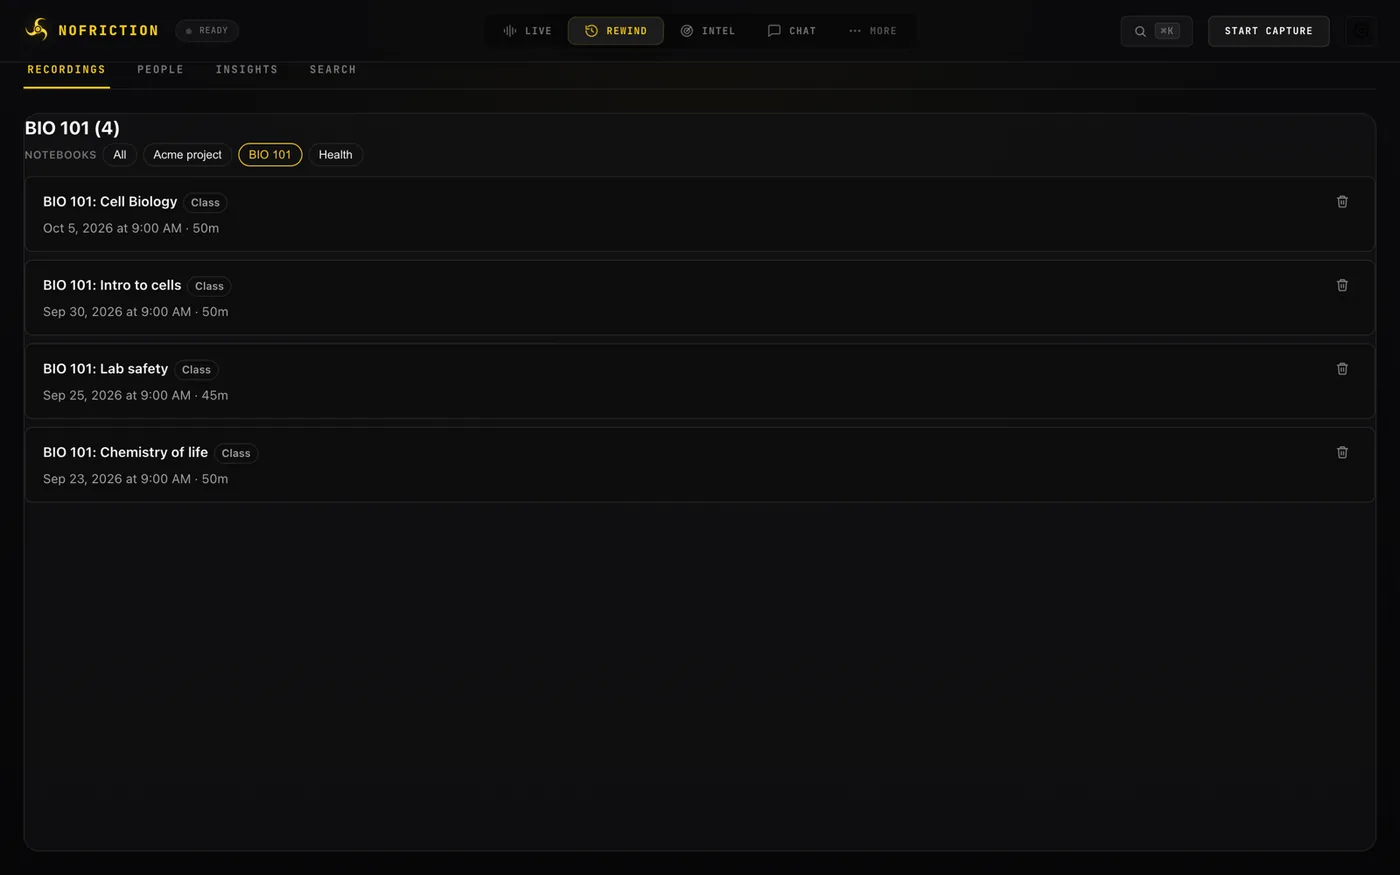
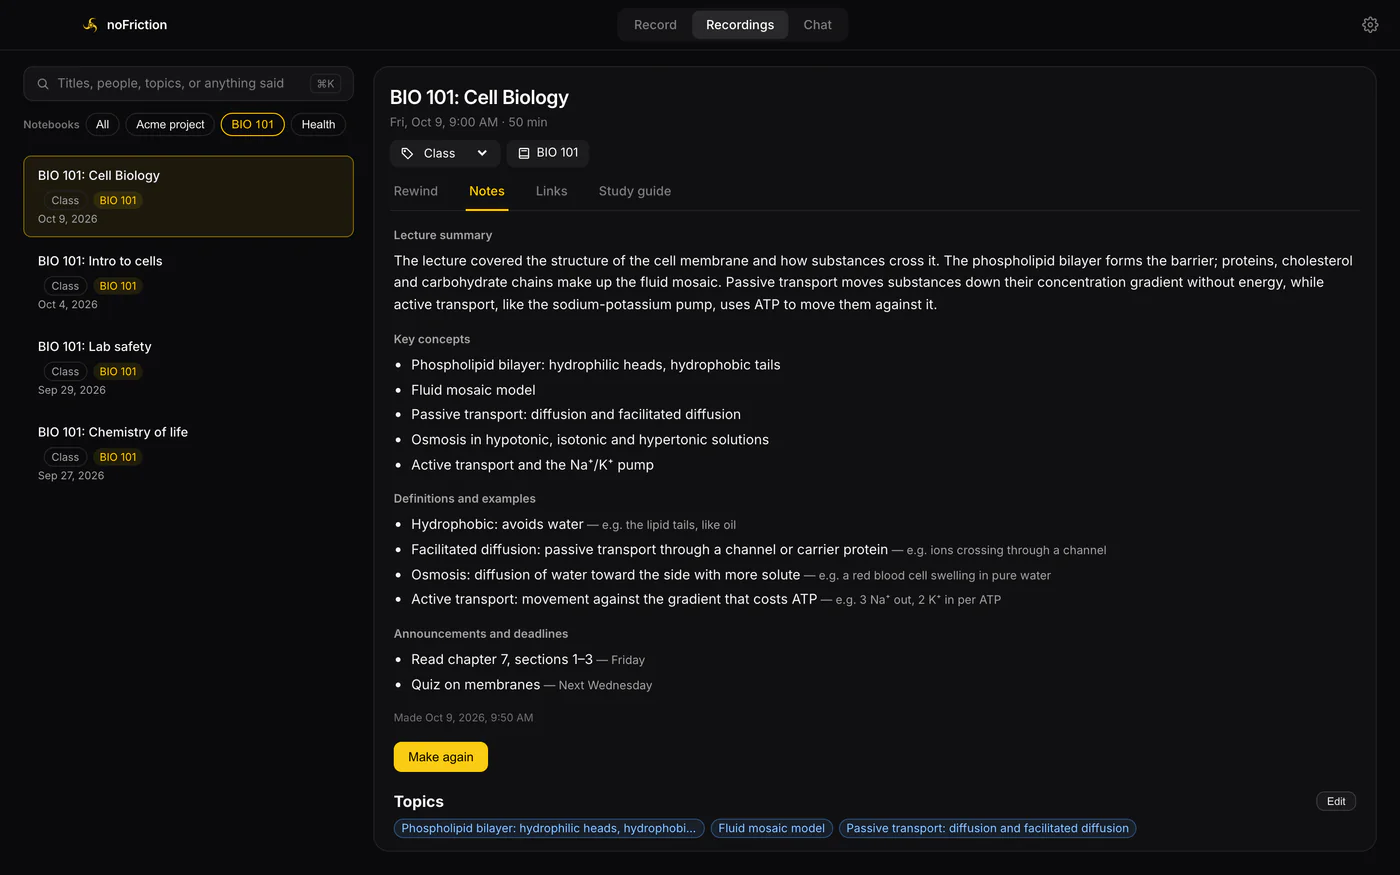
chore(site): refresh screenshots and copy to the 3.7 / 1.0.1 UI
The homepage showed the old Mac window (LIVE / REWIND / INTEL, START
CAPTURE). Every product image is now the redesigned app:

- Mac (mac-01..05): the real React UI in the film harness with demo data,
  captured by `capture-store-3.7.mjs site` (new site shots: Rewind at the
  Important mark, Links, Recordings filtered to BIO 101; the Record sheet
  and Study guide quiz reuse the App Store shots).
- iPhone (iphone-01..03) and Apple Watch (watch-02..05): re-encoded from the
  1.0.1 App Store screenshots.
- guides/mac-lecture-recording: the lecture shot had broken screen thumbnails.

`marketing/film/scripts/site-images.mjs` encodes them at the page's sizes
(WebP + palette PNG, each under 300 KB). Alt text and captions describe the
new screens in DESIGN.md's words (Make notes / Make again, Study guide,
Recordings); support no longer says there is no sync.

diff --git a/site/index.html b/site/index.html
@@ -91,10 +91,10 @@
         <p class="platforms"><a href="#how-it-works">See how it works</a> · Free to record and transcribe · No account</p>
       </div>
       <div class="hero-media">
-        <video poster="img/mac-01-rewind.webp" width="1400" height="875" muted autoplay loop playsinline preload="metadata" aria-label="noFriction for Mac: Rewind shows the slide that was on screen next to what was said.">
+        <video poster="img/mac-01-rewind.webp" width="1400" height="875" muted autoplay loop playsinline preload="metadata" aria-label="noFriction launch film: record, mark the moment, rewind to the slide and what was said, make notes and a review guide, ask Chat, and sync your iPhone and Mac.">
           <source src="video/hero.webm" type="video/webm">
           <source src="video/hero.mp4" type="video/mp4">
-          <img src="img/mac-01-rewind.webp" alt="noFriction for Mac, Rewind view: a Q4 roadmap slide captured at 3:34 beside the transcript lines said at that moment, with an Important mark on the timeline and a strip of captured screens below." width="1400" height="875">
+          <img src="img/mac-01-rewind.webp" alt="noFriction for Mac, the Acme project sync recording open in Recordings, its Rewind view at 3:34: the Q4 roadmap slide on screen beside the transcript lines said then, Priya&#x27;s line at 3:30 with its Important mark, the marks on the timeline and the strip of captured screens below." width="1400" height="875">
         </video>
       </div>
     </div>
@@ -154,11 +154,12 @@
       <p class="eyebrow">Rewind</p>
       <h2 id="features-title">Go back to any moment</h2>
       <div class="showcase">
-        <div class="shot"><picture><source srcset="/img/mac-01-rewind.webp" type="image/webp"><img src="/img/mac-01-rewind.png" alt="noFriction for Mac, Rewind view: a Q4 roadmap slide captured at 3:34 beside the transcript lines said at that moment, with an Important mark on the timeline and a strip of captured screens below." width="1400" height="875" loading="lazy" decoding="async"></picture></div>
+        <div class="shot"><picture><source srcset="/img/mac-01-rewind.webp" type="image/webp"><img src="/img/mac-01-rewind.png" alt="noFriction for Mac, the Acme project sync recording open in Recordings, its Rewind view at 3:34: the Q4 roadmap slide on screen beside the transcript lines said then, Priya&#x27;s line at 3:30 with its Important mark, the marks on the timeline and the strip of captured screens below." width="1400" height="875" loading="lazy" decoding="async"></picture></div>
         <div>
           <p class="lede">On the Mac, noFriction keeps the screens you choose next to the transcript. Pick any second of a meeting or a lecture and see the slide that was up and the words that went with it.</p>
           <ul>
             <li>Marks sit on the timeline and in the transcript. Filter the list to <strong>On the test</strong> before an exam, or <strong>Follow up</strong> after a meeting.</li>
+            <li>Open any recording in <strong>Recordings</strong>: Rewind, Notes, Links and its Review guide sit side by side.</li>
             <li>Search every transcript. Play the audio from any line.</li>
             <li>On iPhone and iPad, add photos of slides and whiteboards; they land in the timeline next to what was said.</li>
           </ul>
@@ -175,45 +176,45 @@
           <svg class="icon" viewBox="0 0 24 24" fill="none" stroke="currentColor" stroke-width="1.8" stroke-linecap="round" stroke-linejoin="round" aria-hidden="true"><path d="M4 4h6a3 3 0 0 1 3 3v13a2 2 0 0 0-2-2H4z"/><path d="M20 4h-6a3 3 0 0 0-3 3v13a2 2 0 0 1 2-2h7z"/></svg>
           <h3>Notebooks</h3>
           <p>Group recordings into "Acme project", "BIO 101" or "Health". Filter chips show one Notebook at a time. On Apple Watch, pick from your recent Notebooks before you record.</p>
-          <picture><source srcset="/img/mac-05-notebooks.webp" type="image/webp"><img src="/img/mac-05-notebooks.png" alt="Recordings filtered to the BIO 101 Notebook: four class recordings with their dates and lengths." width="1400" height="875" loading="lazy" decoding="async"></picture>
+          <picture><source srcset="/img/mac-05-notebooks.webp" type="image/webp"><img src="/img/mac-05-notebooks.png" alt="Recordings filtered to the BIO 101 Notebook: four class recordings in the list, and the latest lecture, BIO 101: Cell Biology, open on its Notes with the lecture summary, key concepts and definitions." width="1400" height="875" loading="lazy" decoding="async"></picture>
         </article>
         <article class="card">
           <svg class="icon" viewBox="0 0 24 24" fill="none" stroke="currentColor" stroke-width="1.8" stroke-linecap="round" stroke-linejoin="round" aria-hidden="true"><circle cx="12" cy="13" r="8"/><path d="M12 9v4l2.5 2.5M9 2h6M12 2v3"/></svg>
           <h3>Timed recording</h3>
           <p>Choose 15, 30, 60 or 90 minutes, or no limit. It stops by itself at the end, after a warning with <strong>+15 min</strong>. Meetings can also stop when the calendar event ends and the room goes quiet.</p>
-          <picture><source srcset="/img/mac-02-record-sheet.webp" type="image/webp"><img src="/img/mac-02-record-sheet.png" alt="The record sheet: What is it? with Meeting, Class and Personal; How long? with 15, 30, 60, 90 minutes or no limit; and an optional Notebook field." width="1400" height="875" loading="lazy" decoding="async"></picture>
+          <picture><source srcset="/img/mac-02-record-sheet.webp" type="image/webp"><img src="/img/mac-02-record-sheet.png" alt="The Record sheet on the Mac: What is it? set to Class, How long? set to 60 minutes (15, 30, 60, 90 or No limit), the Notebook BIO 101, and Cancel and Start recording." width="1400" height="875" loading="lazy" decoding="async"></picture>
         </article>
         <article class="card">
           <svg class="icon" viewBox="0 0 24 24" fill="none" stroke="currentColor" stroke-width="1.8" stroke-linecap="round" stroke-linejoin="round" aria-hidden="true"><path d="M10 14a4 4 0 0 0 5.7 0l3-3a4 4 0 0 0-5.7-5.7l-1.5 1.5"/><path d="M14 10a4 4 0 0 0-5.7 0l-3 3a4 4 0 0 0 5.7 5.7l1.5-1.5"/></svg>
           <h3>Links</h3>
           <p>Web addresses said in a recording appear in its Links list with the time they were said. Add your own references: the agenda, the reading, the deck. Nothing is fetched.</p>
-          <picture><source srcset="/img/mac-04-links.webp" type="image/webp"><img src="/img/mac-04-links.png" alt="The Links view listing web addresses said in a recording, each with the time it was first said, and a reference added by hand." width="1400" height="875" loading="lazy" decoding="async"></picture>
+          <picture><source srcset="/img/mac-04-links.webp" type="image/webp"><img src="/img/mac-04-links.png" alt="The Links view of the Acme project sync recording: two web addresses marked Said with the time each was first said, 5:48 and 17:34, and a Q4 launch plan reference added by hand." width="1400" height="875" loading="lazy" decoding="async"></picture>
         </article>
         <article class="card">
           <svg class="icon" viewBox="0 0 24 24" fill="none" stroke="currentColor" stroke-width="1.8" stroke-linecap="round" stroke-linejoin="round" aria-hidden="true"><rect x="3" y="4" width="18" height="16" rx="2"/><path d="M8 10h8M8 14h5"/></svg>
           <h3>Review guides <span class="meta">(Pro)</span></h3>
           <p>Summary, key terms, flashcards, a practice quiz with explanations and <strong>Jump to this moment</strong>, and questions to ask. Called a study guide for a class. Export flashcards as a CSV file that popular flashcard apps can import, or the guide as Markdown.</p>
-          <picture><source srcset="/img/mac-03-review.webp" type="image/webp"><img src="/img/mac-03-review.png" alt="noFriction for Mac, Review tab for a BIO 101 class: a practice quiz question answered correctly, with its explanation and a Jump to this moment link." width="1400" height="875" loading="lazy" decoding="async"></picture>
+          <picture><source srcset="/img/mac-03-review.webp" type="image/webp"><img src="/img/mac-03-review.png" alt="noFriction for Mac, the Study guide of a BIO 101 class on its Practice quiz: a question answered correctly, with its explanation and a Jump to this moment link." width="1400" height="875" loading="lazy" decoding="async"></picture>
         </article>
         <article class="card">
           <svg class="icon" viewBox="0 0 24 24" fill="none" stroke="currentColor" stroke-width="1.8" stroke-linecap="round" stroke-linejoin="round" aria-hidden="true"><path d="M4 20h4l10-10-4-4L4 16z"/><path d="M13 7l4 4"/></svg>
           <h3>Edit, delete, or strike from the record</h3>
-          <p>Fix a word. Delete a line with five seconds to undo. Or <strong>Strike from the record</strong>: the words are removed everywhere, including the saved audio, and only a marker remains. Share any recording as text, export flashcards and guides, or export every recording as Markdown on the Mac.</p>
+          <p>Fix a word. Delete a line with five seconds to undo. Or <strong>Strike from the record</strong>: the words are removed everywhere, including the saved audio, and only a marker remains. Share any recording as text, export flashcards and guides, or export everything as JSON on the Mac; with Pro, each recording is also saved as Markdown in your Obsidian vault.</p>
         </article>
       </div>
 
       <h3 style="margin-top:44px">On iPhone and iPad</h3>
       <div class="phones">
         <figure class="phone">
-          <picture><source srcset="/img/iphone-01-record.webp" type="image/webp"><img src="/img/iphone-01-record.png" alt="iPhone Record screen during a meeting called Q4 roadmap review: three attendee names, the live transcript with timestamps, and Pause, Stop and Snap buttons." width="600" height="1304" loading="lazy" decoding="async"></picture>
-          <figcaption><strong>Live transcript.</strong> Transcribed on the phone with Apple speech recognition, even with the screen locked.</figcaption>
+          <picture><source srcset="/img/iphone-01-record.webp" type="image/webp"><img src="/img/iphone-01-record.png" alt="iPhone recording a meeting called Q4 roadmap review: 25:16 recorded, Capture screen, three attendee names, the live transcript with timestamps, Mark this moment, and Pause, Stop and Photo buttons above the Record, Recordings, Chat and Settings tabs." width="600" height="1304" loading="lazy" decoding="async"></picture>
+          <figcaption><strong>Record.</strong> The transcript appears as people talk, made on the phone with Apple speech recognition, even with the screen locked. Mark this moment is one tap.</figcaption>
         </figure>
         <figure class="phone">
-          <picture><source srcset="/img/iphone-02-notes.webp" type="image/webp"><img src="/img/iphone-02-notes.png" alt="A meeting&#x27;s Notes: summary, decisions and action items with owners, plus Redo notes and Follow-up email buttons, above the People list." width="600" height="1304" loading="lazy" decoding="async"></picture>
-          <figcaption><strong>Notes that follow the type.</strong> Meeting notes with decisions and action items, lecture notes for a class, a summary with to-dos for everything else.</figcaption>
+          <picture><source srcset="/img/iphone-02-notes.webp" type="image/webp"><img src="/img/iphone-02-notes.png" alt="Notes for the Brightwater pilot kickoff meeting on iPhone: summary, decisions and action items with owners, the Make again and Follow-up email buttons, and Topics." width="600" height="1304" loading="lazy" decoding="async"></picture>
+          <figcaption><strong>Make notes.</strong> Meeting notes with decisions and action items, lecture notes for a class, a summary with to-dos for everything else. Make again any time.</figcaption>
         </figure>
         <figure class="phone">
-          <picture><source srcset="/img/iphone-03-stricken.webp" type="image/webp"><img src="/img/iphone-03-stricken.png" alt="A transcript with a Stricken from the record marker at 14:05 in place of the removed words, with the reason pricing under NDA." width="600" height="1304" loading="lazy" decoding="async"></picture>
+          <picture><source srcset="/img/iphone-03-stricken.webp" type="image/webp"><img src="/img/iphone-03-stricken.png" alt="An iPhone transcript with a Stricken from the record marker at 14:05 in place of the removed words, with the reason pricing under NDA." width="600" height="1304" loading="lazy" decoding="async"></picture>
           <figcaption><strong>Strike from the record.</strong> Gone from the transcript, search, audio and exports. Only the marker stays.</figcaption>
         </figure>
       </div>
@@ -231,11 +232,11 @@
           <figcaption><strong>Record</strong>Meeting, Class or Personal; 15 to 90 minutes or no limit.</figcaption>
         </figure>
         <figure class="watch">
-          <picture><source srcset="/img/watch-04-class.webp" type="image/webp"><img src="/img/watch-04-class.png" alt="Apple Watch recording a Class in the BIO 101 Notebook: 42:07 left, three Important marks, and Mark, Pause and Stop buttons." width="416" height="496" loading="lazy" decoding="async"></picture>
+          <picture><source srcset="/img/watch-04-class.webp" type="image/webp"><img src="/img/watch-04-class.png" alt="Apple Watch recording a Class in the BIO 101 Notebook: 42:08 left, 17:51 recorded, three marks, and Mark, Pause and Stop buttons." width="416" height="496" loading="lazy" decoding="async"></picture>
           <figcaption><strong>Mark</strong>One tap for Important; touch and hold for Question or On the test.</figcaption>
         </figure>
         <figure class="watch">
-          <picture><source srcset="/img/watch-03-recordings.webp" type="image/webp"><img src="/img/watch-03-recordings.png" alt="Apple Watch Recordings list: a Class recording Sending to iPhone and an earlier one marked Delivered." width="416" height="496" loading="lazy" decoding="async"></picture>
+          <picture><source srcset="/img/watch-03-recordings.webp" type="image/webp"><img src="/img/watch-03-recordings.png" alt="Apple Watch Recordings list: a BIO 101 Class recording with three marks, Sending to iPhone, and an earlier one marked Delivered." width="416" height="496" loading="lazy" decoding="async"></picture>
           <figcaption><strong>Delivered</strong>Sent to your iPhone in the background, deleted from the watch only after it's confirmed.</figcaption>
         </figure>
         <figure class="watch">

diff --git a/site/support/index.html b/site/support/index.html
@@ -100,7 +100,7 @@
     <details><summary>"Wrong key" or "no credit"</summary><div><p>Enter your endpoint's key again in full and check it hasn't been revoked. "No credit" and rate limits come from your endpoint; check with its operator.</p></div></details>
     <details><summary>Restoring a subscription</summary><div><p>Open Settings → Subscription → Restore Purchases, signed in with the same Apple Account you subscribed with. One subscription covers iPhone, iPad and Mac.</p></div></details>
     <details><summary>Canceling</summary><div><p>Manage or cancel any time from Settings → Subscription in the app, or in your device's Settings → your name → Subscriptions. Refunds are handled by Apple at <a href="https://reportaproblem.apple.com" rel="noopener">reportaproblem.apple.com</a>.</p></div></details>
-    <details><summary>Moving to a new device</summary><div><p>Recordings are stored only on the device that recorded them; noFriction has no cloud sync. To keep a copy elsewhere: on iPhone and iPad, use the Share button in a recording; on the Mac, export recordings as Markdown to a folder you choose or export your data (Settings → Data).</p></div></details>
+    <details><summary>Moving to a new device</summary><div><p>Recordings are stored on the device that recorded them; noFriction has no cloud and no server. With noFriction Pro, Sync moves recordings, transcripts, notes, marks and screens between your iPhone and your Mac directly on your Wi-Fi: pair them once in Settings → Sync with the QR code. To keep a copy elsewhere: on iPhone and iPad, use the Share button in a recording; on the Mac, export everything as JSON in Settings → Recording → Export, or (with Pro) export each recording as Markdown to your Obsidian vault.</p></div></details>
     <details><summary>Recording a class</summary><div><p>Many schools require the instructor's permission to record a class, and some require classmates' consent. Check your school's policy. noFriction reminds you the first time you record a class.</p></div></details>
   </div>
 
